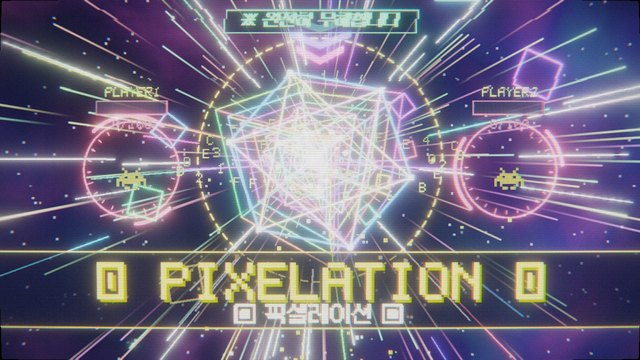
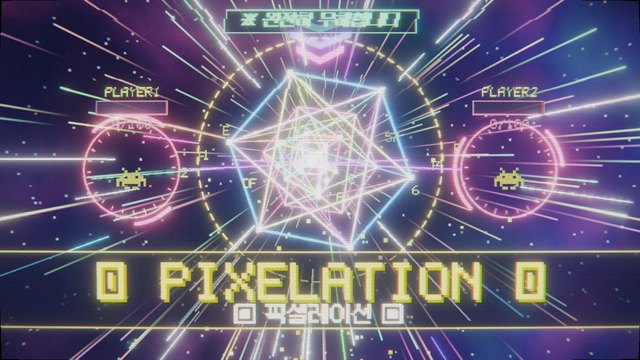
PIXELATION: 중앙 구조물 정리 — 덕지덕지 붙은 네모 제거
잔상 큐브 5겹 · 바깥 유령 큐브 · 떠도는/스쳐 가는 사각 조각 · 깜빡이는 대각선 · 꼭짓점 눈금 삭제,
링 위성 · 전기 아크 · 도는 16진수 글자 · 속도선 · 떨어지는 타일 수 축소. 큐브 · 안쪽 큐브 · 핵 · 링만 또렷하게.

diff --git a/public/pixelation_gl.html b/public/pixelation_gl.html
@@ -144,7 +144,7 @@ function drawPixels(t) {
   }
   /* 큐브 둘레를 도는 데이터 파편(16진수) · 자물쇠 — 얼굴은 없음: 본색은 큐브가 붉게 뒤틀리는 것으로 드러난다 */
   const cx = 240, cy = 118 + Math.round(Math.sin(t * 1.7) * 2), bad = evil(t) || slam;
-  { const n = dropped ? 30 : 20, sp = dropped ? 2.2 : .8 + 2 * seg(t, T.BUILD, T.DROP), HEXC = "0123456789ABCDEF";
+  { const n = dropped ? 16 : 10, sp = dropped ? 2.2 : .8 + 2 * seg(t, T.BUILD, T.DROP), HEXC = "0123456789ABCDEF";
     for (let i = 0; i < n; i++) { const ring = i % 2, a = i / n * TAU + t * sp * (ring ? -1 : 1), rx = (ring ? 74 : 56) + (dropped ? 30 : 0), ry = ring ? 16 : 26, dz = Math.sin(a), x = cx + Math.cos(a) * rx, y = cy + dz * ry + (ring ? -6 : 8) * Math.cos(a);
       const h = Math.floor(Math.abs(Math.sin(i * 91.7 + Math.floor(t * (bad ? 30 : 7)) * 13.1)) * 16); ptext(bad && i % 3 === 0 ? "!" : HEXC[h], x - 2, y - 3, 1, bad ? R : dz > 0 ? Y : DIM); } }
   if (!dropped) { const shake = t >= T.BUILD ? Math.round(Math.sin(t * 70) * seg(t, T.BUILD, T.DROP) * 3) : 0, pop = seg(t, T.DROP - BEAT, T.DROP); spr(LOCK, cx - 11 + shake, 156 - pop * 30, 2, { "#": Y }); if (t < T.BUILD) ptext("SEALED", cx, 180, 1, DIM, "c"); }
@@ -178,14 +178,13 @@ function drawVector(t) {
   vg.setTransform(DPR, 0, 0, DPR, Wd / 2 * DPR, Hd / 2 * DPR); vg.globalCompositeOperation = "lighter"; vg.lineCap = "round"; vg.lineJoin = "round";
   const kick = dat(D.kick, t), dropped = t >= T.DROP, age = t - T.DROP, cy = (t >= T.SLAM ? -.2 : -.62) * U + Math.sin(t * 1.7) * .07 * U, appear = eOut(seg(t, T.AD, T.AD + .5));
   const line = (pts, w, col, close) => { vg.strokeStyle = col; vg.lineWidth = w * U; vg.beginPath(); pts.forEach(([x, y], i) => (i ? vg.lineTo(x, y) : vg.moveTo(x, y))); if (close) vg.closePath(); vg.stroke(); };
-  /* 자아: 겹겹이 엇도는 큐브(테서랙트) + 팔면체 핵 + 자이로 링 + 깜빡이는 대각선 + 전기 아크 + 글리치 잔상 — 일부러 난잡하게 */
+  /* 자아: 엇도는 두 겹 큐브(테서랙트) + 팔면체 핵 + 자이로 링 + 전기 아크 — 덕지덕지 붙이지 말고 또렷하게(사용자 피드백) */
   const evilNow = evil(t) && !dropped, bad = evilNow || t >= T.SLAM, fly = t >= T.KICK, hue0 = hueAt(t), spread = fly ? 28 : 7;
   const rc = (a, o = 0) => (evilNow ? `rgba(255,64,96,${a})` : `hsla(${(hue0 + o * spread) % 360},100%,60%,${a})`), wc = (a, o = 0) => (evilNow ? `rgba(255,190,200,${a})` : `hsla(${(hue0 + 50 + o * spread) % 360},100%,84%,${a})`);
   const flyK = fly ? eOut(seg(t, T.KICK, T.KICK + .6)) : 0, fx = flyK * (Math.sin(t * 2.3) * .42 + Math.sin(t * 5.1) * .12) * U * (dropped ? .45 : 1), roll = flyK * Math.sin(t * 2.3 + .6) * .13 * (dropped ? .4 : 1), speed = fly ? (t < T.BUILD ? 1 : t < T.DROP ? 1 + seg(t, T.BUILD, T.DROP) : 2.2) : 0;
   if (fly) {                                                                                               // 속도감: 중심에서 바깥으로 스치는 속도선 + 뒤로 날아가는 바닥 조각
-    const r2 = rng(Math.floor(t * 30) * 13 + 5); for (let i = 0; i < 22 + 10 * speed; i++) { const a = r2() * TAU, r0 = (2.6 + r2() * 4.5) * U, len = (.5 + r2() * 1.6) * U * speed; vg.globalAlpha = flyK * (.18 + .4 * r2()); line([[Math.cos(a) * r0, Math.sin(a) * r0 * .8 + cy], [Math.cos(a) * (r0 + len), Math.sin(a) * (r0 + len) * .8 + cy]], .018 + .02 * r2(), i % 3 ? "#ffffff" : rc(1, i)); }
-    for (let i = 0; i < 16; i++) { const h = (i * .618) % 1, z = (h + warpPhase(t) * (.5 + .3 * ((i * .37) % 1))) % 1, a = i * 2.399 + 1, d = z * z * 10 * U, w = z * z * 1.5 * U + .05 * U; vg.save(); vg.translate(Math.cos(a) * d, Math.sin(a) * d * .75 + cy); vg.rotate(a + z * 3); vg.globalAlpha = flyK * Math.min(1, z * 2.5) * .8; vg.strokeStyle = rc(1, i * 2); vg.lineWidth = (.015 + .04 * z) * U; vg.strokeRect(-w / 2, -w / 2, w, w); vg.restore(); }
-    const r3 = rng(99); for (let i = 0; i < 46; i++) { const x0 = (r3() - .5) * 17 * U, y0 = (.6 + r3() * 4.2) * U, born = T.KICK + Math.hypot(x0 / U, (y0 / U - .6) * 3) * .075 + r3() * .3, k = t - born, sz = (.25 + r3() * .7) * U, sp = (r3() - .5) * 5; if (k < 0 || k > 1.6) continue;       // 무너져 떨어지는 바닥 타일
+    const r2 = rng(Math.floor(t * 30) * 13 + 5); for (let i = 0; i < 14 + 8 * speed; i++) { const a = r2() * TAU, r0 = (2.6 + r2() * 4.5) * U, len = (.5 + r2() * 1.6) * U * speed; vg.globalAlpha = flyK * (.18 + .4 * r2()); line([[Math.cos(a) * r0, Math.sin(a) * r0 * .8 + cy], [Math.cos(a) * (r0 + len), Math.sin(a) * (r0 + len) * .8 + cy]], .018 + .02 * r2(), i % 3 ? "#ffffff" : rc(1, i)); }
+    const r3 = rng(99); for (let i = 0; i < 26; i++) { const x0 = (r3() - .5) * 17 * U, y0 = (.6 + r3() * 4.2) * U, born = T.KICK + Math.hypot(x0 / U, (y0 / U - .6) * 3) * .075 + r3() * .3, k = t - born, sz = (.25 + r3() * .7) * U, sp = (r3() - .5) * 5; if (k < 0 || k > 1.6) continue;       // 무너져 떨어지는 바닥 타일
       vg.save(); vg.translate(x0 + sp * k * .2 * U, y0 + k * k * 5.5 * U); vg.rotate(sp * k); vg.globalAlpha = Math.min(1, k * 8) * (1 - k / 1.6); vg.strokeStyle = rc(1, i); vg.lineWidth = .03 * U; vg.strokeRect(-sz / 2, -sz * .25, sz, sz * .5 * (1 - .4 * k)); vg.restore(); }
     vg.globalAlpha = 1; }
   vg.save(); vg.translate(fx, cy); vg.rotate(roll); vg.translate(0, -cy);                                   // 구조물은 좌우로 기울며 날아간다
@@ -196,23 +195,19 @@ function drawVector(t) {
   const proj = (v, sp, tilt, sc) => v.map(([x, y, z]) => { const c = Math.cos(sp), s = Math.sin(sp), x1 = x * c + z * s, z1 = -x * s + z * c, c2 = Math.cos(tilt), s2 = Math.sin(tilt), y2 = y * c2 - z1 * s2, z2 = y * s2 + z1 * c2, f = 4.2 / (4.2 + z2); return [x1 * f * sc * .62 + (rr() - .5) * jit, y2 * f * sc * .62 * sqY + cy + (rr() - .5) * jit, z2]; });
   const pv = proj(CUBE_V, spin, ax, size), pi = proj(CUBE_V, -spin * 1.7 + 1, ax + .6 + .3 * Math.sin(t * 1.3), size * (.52 + .06 * Math.sin(t * 5))), pm = proj(CUBE_V, spin * .6 + 2, -ax * 1.4, size * 1.28);
   const OCT = [[0, -1, 0], [1, 0, 0], [0, 0, 1], [-1, 0, 0], [0, 0, -1], [0, 1, 0]], po = proj(OCT, t * 4.5, t * 2.1, size * (.3 + .12 * kick));
-  if (fly) for (let n = 5; n >= 1; n--) { const sc = 1 + n * .2 * speed * (.8 + .2 * kick); vg.globalAlpha = flyK * (dropped ? .22 : .34) / n; CUBE_E.forEach(([a, b], i) => line([[pv[a][0] * sc - fx * n * .12, (pv[a][1] - cy) * sc + cy], [pv[b][0] * sc - fx * n * .12, (pv[b][1] - cy) * sc + cy]], .03, rc(1, i - n * 3))); } vg.globalAlpha = 1;   // 뒤에 남는 무지개 잔상
   // 글리치 잔상 (가끔 옆으로 밀린 복사본)
-  if (rr() < (bad ? .9 : .22)) { const dx = (rr() - .5) * 1.4 * U, a = .25 + .3 * rr(); CUBE_E.forEach(([a0, b0]) => line([[pv[a0][0] + dx, pv[a0][1]], [pv[b0][0] + dx, pv[b0][1]]], .03, rc(a))); }
-  CUBE_E.forEach(([a, b], i) => line([pm[a], pm[b]], .018, rc(.4, i + 6)));                                           // 바깥 유령 큐브
+  if (bad && rr() < .8) { const dx = (rr() - .5) * 1.4 * U, a = .25 + .3 * rr(); CUBE_E.forEach(([a0, b0]) => line([[pv[a0][0] + dx, pv[a0][1]], [pv[b0][0] + dx, pv[b0][1]]], .03, rc(a))); }
   CUBE_E.forEach(([a, b], i) => line([pv[a], pv[b]], .05, rc(.95, i)));                                            // 본체
   CUBE_E.forEach(([a, b], i) => line([pi[a], pi[b]], .035, wc(.9, -i)));                                            // 역회전하는 안쪽 큐브
-  for (let i = 0; i < 8; i++) { line([pv[i], pi[i]], .018, rc(.5, i * 1.5 + 3)); if (i % 2 === 0) line([pv[i], pm[i]], .012, rc(.3, i + 9)); }   // 테서랙트 연결선
-  [[0, 2], [1, 3], [4, 6], [5, 7], [0, 5], [1, 4], [3, 6], [2, 7], [0, 7], [3, 4], [1, 6], [2, 5]].forEach(([a, b], i) => { if (Math.sin(i * 37.1 + tick * 1.9) > .1) line([pv[a], pv[b]], .015, rc(.5, i + 4)); });   // 깜빡이는 면 대각선
+  for (let i = 0; i < 8; i++) line([pv[i], pi[i]], .016, rc(.45, i * 1.5 + 3));   // 테서랙트 연결선
   [[0, 1], [0, 2], [0, 3], [0, 4], [5, 1], [5, 2], [5, 3], [5, 4], [1, 2], [2, 3], [3, 4], [4, 1]].forEach(([a, b]) => line([po[a], po[b]], .03, wc(.95)));                                       // 팔면체 핵
   vg.fillStyle = wc(.9); vg.beginPath(); vg.arc(0, cy, size * (.05 + .05 * kick), 0, TAU); vg.fill();
   for (let g = 0; g < 3; g++) { const tilt = [.35, 1.2, -.8][g] + t * [.4, -.3, .55][g], rx = size * [1.25, 1.42, 1.08][g], ry = rx * (.22 + .18 * Math.abs(Math.sin(t * .7 + g * 2)));                          // 자이로 링
     vg.save(); vg.translate(0, cy); vg.rotate(tilt); vg.strokeStyle = rc(.6 - g * .1, g * 4 + 2); vg.lineWidth = .022 * U; vg.setLineDash(g === 1 ? [.12 * U, .1 * U] : []); vg.beginPath(); vg.ellipse(0, 0, rx, ry, 0, 0, TAU); vg.stroke(); vg.setLineDash([]);
-    for (let k = 0; k < 4; k++) { const a = k / 4 * TAU + t * (1.5 + g), x = Math.cos(a) * rx, y = Math.sin(a) * ry; vg.fillStyle = wc(.95, k * 3 + g * 4); vg.fillRect(x - .06 * U, y - .06 * U, .12 * U, .12 * U); } vg.restore(); }
-  pv.forEach(([x, y], i) => { vg.fillStyle = wc(1); vg.fillRect(x - .06 * U, y - .06 * U, .12 * U, .12 * U); const ex = x * .18, ey = (y - cy) * .18; line([[x + ex * .4, y + ey * .4], [x + ex * (1.3 + .8 * kick), y + ey * (1.3 + .8 * kick)]], .02, rc(.6, i * 1.5)); });   // 꼭짓점 표식 + 바깥으로 뻗는 눈금
-  const arcs = (bad ? 7 : dropped ? 5 : t >= T.BUILD ? 2 + Math.floor(seg(t, T.BUILD, T.DROP) * 4) : t >= T.KICK ? 2 : 1);                                                       // 전기 아크: 꼭짓점 사이를 튀는 지그재그
-  for (let n = 0; n < arcs; n++) { const a = pv[Math.floor(rr() * 8)], b = (rr() < .5 ? pi : pm)[Math.floor(rr() * 8)], pts = [a]; for (let k = 1; k < 6; k++) { const q = k / 6; pts.push([lerp(a[0], b[0], q) + (rr() - .5) * .5 * U, lerp(a[1], b[1], q) + (rr() - .5) * .5 * U]); } pts.push(b); line(pts, .022, wc(.85, n * 3)); }
-  for (let n = 0; n < 10; n++) { const a = rr() * TAU, d = size * (.9 + rr() * 1.1), x = Math.cos(a) * d, y = Math.sin(a) * d * .8 + cy, w = (.05 + rr() * .12) * U; vg.strokeStyle = rc(.5 + .4 * rr(), n * 1.3); vg.lineWidth = .018 * U; vg.strokeRect(x - w / 2, y - w / 2, w, w); }   // 떠도는 조각
+    for (let k = 0; k < 1; k++) { const a = k / 4 * TAU + t * (1.5 + g), x = Math.cos(a) * rx, y = Math.sin(a) * ry; vg.fillStyle = wc(.95, k * 3 + g * 4); vg.fillRect(x - .06 * U, y - .06 * U, .12 * U, .12 * U); } vg.restore(); }
+  pv.forEach(([x, y], i) => { vg.fillStyle = wc(1); vg.fillRect(x - .06 * U, y - .06 * U, .12 * U, .12 * U); });   // 꼭짓점 표식
+  const arcs = (bad ? 5 : dropped ? 2 : t >= T.BUILD ? 1 + Math.floor(seg(t, T.BUILD, T.DROP) * 2.9) : 1);                                                       // 전기 아크: 꼭짓점 사이를 튀는 지그재그
+  for (let n = 0; n < arcs; n++) { const a = pv[Math.floor(rr() * 8)], b = pi[Math.floor(rr() * 8)], pts = [a]; for (let k = 1; k < 6; k++) { const q = k / 6; pts.push([lerp(a[0], b[0], q) + (rr() - .5) * .5 * U, lerp(a[1], b[1], q) + (rr() - .5) * .5 * U]); } pts.push(b); line(pts, .022, wc(.85, n * 3)); }
   vg.restore();
   /* 봉인 사슬: 19.73 / 22.19 에 하나씩 끊어짐 */
   [[T.BUILD, -1], [bar(18), 1]].forEach(([cut, dir]) => { const br = seg(t, cut, cut + .5); if (br >= 1 || dropped) return;
